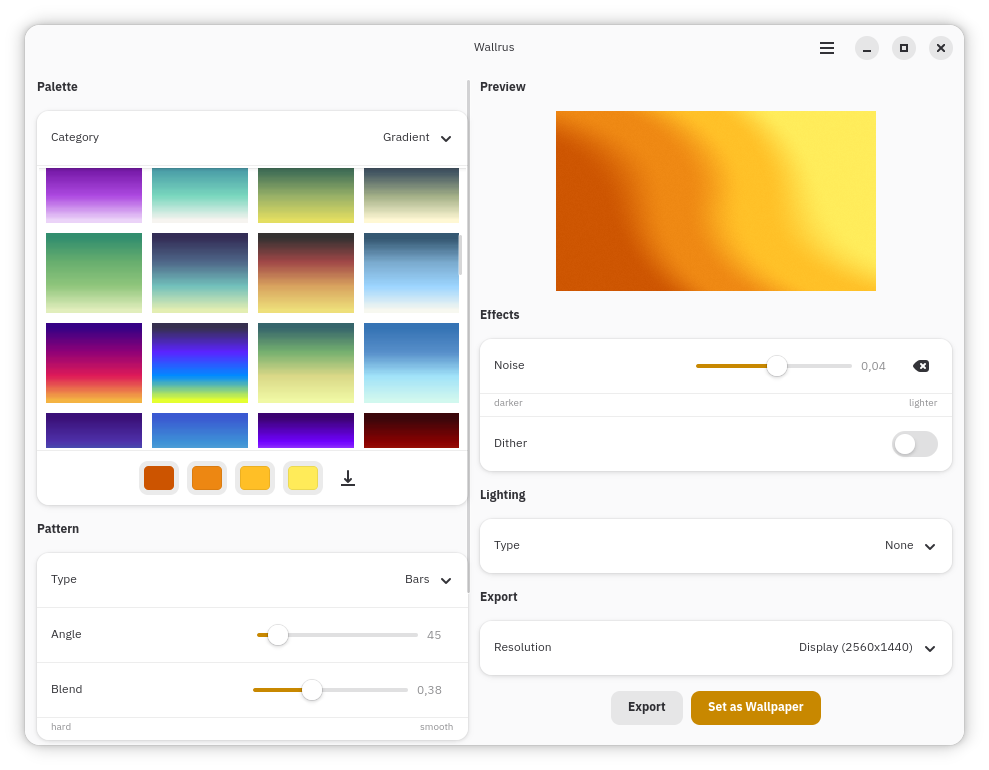
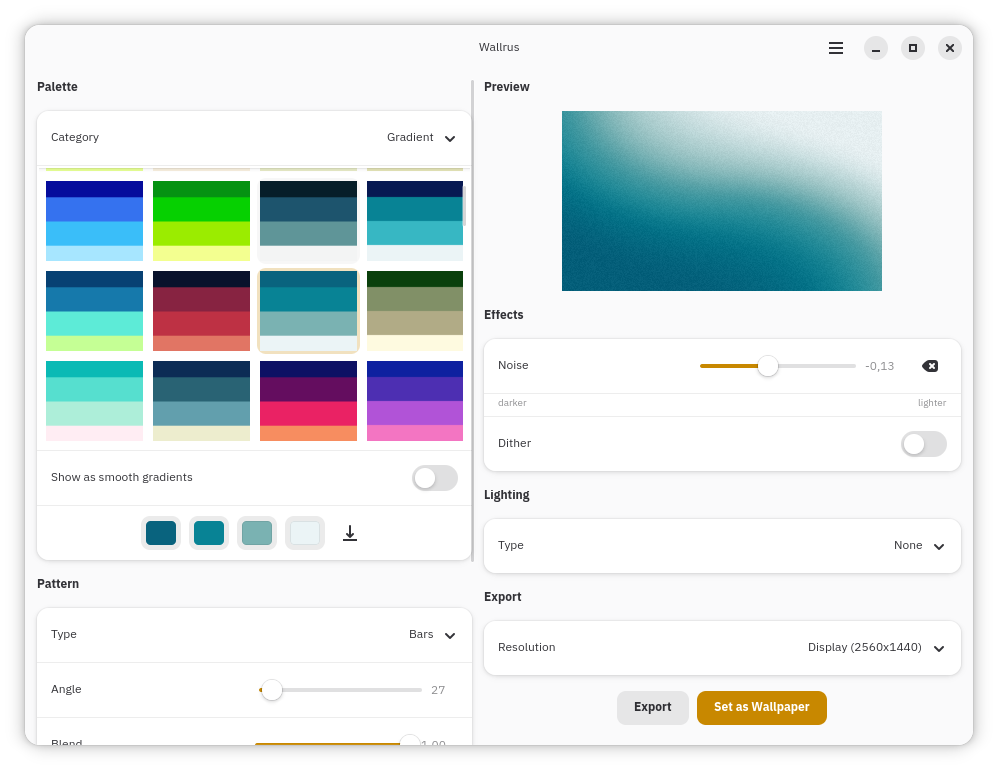
smooth gradient toggle

diff --git a/src/window.rs b/src/window.rs
@@ -5,7 +5,7 @@ use gtk4::glib;
 use gtk4::prelude::*;
 use libadwaita as adw;
 use libadwaita::prelude::*;
-use std::cell::RefCell;
+use std::cell::{Cell, RefCell};
 use std::path::PathBuf;
 use std::rc::Rc;
 
@@ -96,6 +96,9 @@ impl WallrusWindow {
         // Track paths for current FlowBox children
         let palette_paths: Rc<RefCell<Vec<PathBuf>>> = Rc::new(RefCell::new(Vec::new()));
 
+        // Whether palette thumbnails use smooth (bilinear) scaling vs nearest-neighbor
+        let smooth_gradient: Rc<Cell<bool>> = Rc::new(Cell::new(false));
+
         let palette_scroll = gtk4::ScrolledWindow::new();
         palette_scroll.set_child(Some(&palette_flowbox));
         palette_scroll.set_min_content_height(280);
@@ -109,6 +112,7 @@ impl WallrusWindow {
         let populate_flowbox = {
             let flowbox = palette_flowbox.clone();
             let paths = palette_paths.clone();
+            let smooth = smooth_gradient.clone();
             Rc::new(move |images: &[PathBuf], is_custom: bool, on_delete: Option<Rc<dyn Fn()>>| {
                 // Clear existing children
                 while let Some(child) = flowbox.first_child() {
@@ -133,12 +137,21 @@ impl WallrusWindow {
                 }
 
                 for path in images {
-                    match gdk_pixbuf::Pixbuf::from_file_at_scale(
-                        path.to_str().unwrap_or_default(),
-                        80,
-                        80,
-                        false,
-                    ) {
+                    let pixbuf_result = if smooth.get() {
+                        gdk_pixbuf::Pixbuf::from_file_at_scale(
+                            path.to_str().unwrap_or_default(),
+                            80,
+                            80,
+                            false,
+                        )
+                    } else {
+                        gdk_pixbuf::Pixbuf::from_file(path.to_str().unwrap_or_default())
+                            .and_then(|pb| {
+                                pb.scale_simple(80, 80, gdk_pixbuf::InterpType::Nearest)
+                                    .ok_or_else(|| glib::Error::new(gdk_pixbuf::PixbufError::Failed, "scale_simple failed"))
+                            })
+                    };
+                    match pixbuf_result {
                         Ok(pixbuf) => {
                             let texture = gdk::Texture::for_pixbuf(&pixbuf);
                             let image = gtk4::Picture::for_paintable(&texture);
@@ -234,6 +247,17 @@ impl WallrusWindow {
         palette_listbox_row.set_activatable(false);
         palette_listbox_row.set_selectable(false);
         palette_group.add(&palette_listbox_row);
+
+        // --- Smooth gradient toggle ---
+        let smooth_switch = gtk4::Switch::new();
+        smooth_switch.set_active(false);
+        smooth_switch.set_valign(gtk4::Align::Center);
+        let smooth_row = adw::ActionRow::builder()
+            .title("Show as smooth gradients")
+            .build();
+        smooth_row.add_suffix(&smooth_switch);
+        smooth_row.set_activatable_widget(Some(&smooth_switch));
+        palette_group.add(&smooth_row);
 
         // --- Color picker buttons (4, one per color band) ---
         let color_dialog = gtk4::ColorDialog::new();
@@ -831,6 +855,31 @@ impl WallrusWindow {
                             None
                         };
                         populate2(images, is_custom, on_delete);
+                    }
+                }
+            });
+
+            // Connect smooth gradient toggle change
+            let all_cats3 = all_categories.clone();
+            let cat_names3 = category_names.clone();
+            let populate3 = populate_flowbox.clone();
+            let smooth_state = smooth_gradient.clone();
+            let category_row_ref2 = category_row.clone();
+            let refresh_for_smooth = refresh_current_category.clone();
+            smooth_switch.connect_active_notify(move |switch| {
+                smooth_state.set(switch.is_active());
+                let idx = category_row_ref2.selected() as usize;
+                let names = cat_names3.borrow();
+                if let Some(name) = names.get(idx) {
+                    let cats = all_cats3.borrow();
+                    if let Some(images) = cats.get(name) {
+                        let is_custom = palette::is_custom_category(name);
+                        let on_delete = if is_custom {
+                            Some(refresh_for_smooth.borrow().as_ref().unwrap().clone())
+                        } else {
+                            None
+                        };
+                        populate3(images, is_custom, on_delete);
                     }
                 }
             });
